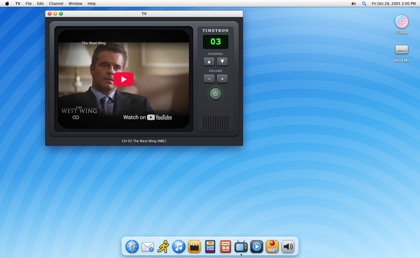
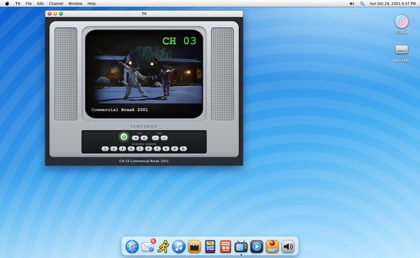
TV screenshots in the README and gallery; credits mention the Archive recordings

Changed region(s): [[0.0929, 0.062, 0.5881, 0.6822], [0.8357, 0.0, 0.8976, 0.031], [0.3405, 0.8992, 0.3714, 0.9612]]

diff --git a/gallery.html b/gallery.html
@@ -59,7 +59,8 @@ const SHOTS = [
   ['catalog', 'Catalog', 'The real 2005 JCPenney Christmas Book, page-flipping like a PDF, with zoom and full screen.'],
   ['movienight', 'Movie Night shelf', 'Your watchlist on a video store shelf. Pick boxes and it plans the night, with an intermission.'],
   ['movieguide', 'Movie Guide', "Tonight's double feature: two tickets, the running time, and snacks."],
-  ['tv', 'TV', 'An old set with channels to flip through.'],
+  ['tv', 'TV', 'Ten channels of real recordings from the year on the clock. Here, a commercial break from 2001.'],
+  ['tv-wide', 'TV, maximized', 'The picture stays 4:3 between the speakers. Press F for full screen, or type a channel on the keypad.'],
   ['utunes', 'uTunes', 'The Billboard year-end Hot 100 for every year, 1996 to 2005.'],
   ['quickshow', 'QuickShow', 'Trailers and show openings play in a little player.'],
   ['nim', 'NIM', 'Buddy list, chat rooms and profile pages, with bots that say so.'],

diff --git a/README.md b/README.md
@@ -10,7 +10,7 @@ Set the date and the machine fills with the real music, movies, TV shows and web
 
 ## Screenshots
 
-<p align="center"><b><a href="https://hertn.github.io/nostalgia-desktop/gallery.html">Browse the full gallery (13 pictures)</a></b></p>
+<p align="center"><b><a href="https://hertn.github.io/nostalgia-desktop/gallery.html">Browse the full gallery (14 pictures)</a></b></p>
 
 <table>
   <tr>
@@ -20,6 +20,10 @@ Set the date and the machine fills with the real music, movies, TV shows and web
   <tr>
     <td width="50%" align="center" valign="top"><img src="screenshots/catalog.png" alt="Catalog showing a 2005 JCPenney Christmas Book spread" width="100%"><br><b>Catalog</b>, real scanned spreads</td>
     <td width="50%" align="center" valign="top"><img src="screenshots/movienight.png" alt="Movie Night shelf with two films picked for tonight" width="100%"><br><b>Movie Night</b>, your watchlist on a shelf</td>
+  </tr>
+  <tr>
+    <td width="50%" align="center" valign="top"><img src="screenshots/tv.png" alt="The TV showing a commercial break from 2001" width="100%"><br><b>TV</b>, real recordings of the era</td>
+    <td width="50%" align="center" valign="top"><img src="screenshots/tv-wide.png" alt="The TV maximized, with speakers either side of the picture" width="100%"><br><b>TV</b>, maximized</td>
   </tr>
   <tr>
     <td width="50%" align="center" valign="top"><img src="screenshots/oldweb.png" alt="Old Web showing the On this day page" width="100%"><br><b>Old Web</b>, opening on the day on your clock</td>
@@ -39,7 +43,7 @@ For anyone who misses the early internet. It is a time capsule to look around in
 | --- | --- |
 | **Movie Guide** | Don't know what to watch? Open it and find something. Browse movies and TV shows from the era, filter by year, genre or network, press the **Surprise me** button for a random pick, or press the **Movie Night** button to get a double feature. Save favorites to a watchlist, then switch it to the **Shelf**: your saved titles stand on a video store shelf, and clicking boxes builds tonight's bill with start times, an intermission and when the lights come up, ready to copy or print. |
 | **uTunes** | The Billboard Year-End Hot 100 for every year, with the music videos. Build a playlist, then send it to Spotify or Apple Music (see below). |
-| **TV** | An old TV with channels 1 to 69: shows from the era, a news channel (channel 1) from the exact date on your clock, commercials and Saturday morning cartoons. |
+| **TV** | An old TV with ten channels of real recordings from the year on your clock: news (from the exact date), Saturday morning cartoons, commercials, kids TV, cartoons, sitcoms, dramas, late night, music TV, and sports and movies. Type a channel on the keypad or keyboard, or use the arrow keys. Press F for full screen. |
 | **Old Web** | Real websites as the Internet Archive saved them near your date. It opens on an "On this day" page with headlines, the number one song and movie, what was on TV and a picture of the day, and it dials in with a modem the first time. |
 | **TV Guide** | The printed TV listings, in the same page-flipping viewer as the Catalog. It opens the week on your clock as a recreated magazine: four pages for every day of what ABC, CBS, NBC, Fox, UPN and The WB ran, with the prime time hours in yellow. The Library also holds the real TV Guide issues that survive online as scans (1997 to 2002), and one opens by itself when its week matches your clock. |
 | **Catalog** | The real printed JCPenney and Sears catalogs of the year on your clock, as page scans you flip through like a book: every book of the year on your clock, opening on the one for the current quarter (Spring and Summer from January to June, Fall and Winter from July to September, Christmas from October to December). Click the sides or drag to turn pages, zoom in, jump with the page sidebar, open the **Library** for the older books of that year, or press **F** for true full screen. |
@@ -68,6 +72,7 @@ It is plain HTML, CSS and JavaScript (ES modules) with no build step, no server 
 - **"On this day":** Wikipedia date pages and current events, with Wikimedia Commons pictures of the day
 - **Videos:** found through public Piped search instances and played in YouTube's embedded player (videos that disallow embedding are skipped)
 - **Old websites:** the Internet Archive's Wayback Machine
+- **TV recordings:** the Internet Archive's video collections (VHS tapes of real broadcasts, commercial reels, news, cartoons), streamed straight from archive.org into a video player
 - **Catalog pages:** scans from [christmas.musetechnical.com](https://christmas.musetechnical.com/), loaded straight from your browser to their server (their server only handles two requests at a time, so new pages take a moment; pages you have seen are kept in your browser)
 
 ### Chat
@@ -113,7 +118,7 @@ Built by Claude, an AI made by Anthropic, and directed by Hert Niks.
 
 Chat uses [Trystero](https://github.com/dmotz/trystero) (MIT). Wikipedia text is available under CC BY-SA and is read live, not copied into this repository.
 
-The catalog pages are scans of real printed JCPenney and Sears catalogs, hosted by [christmas.musetechnical.com](https://christmas.musetechnical.com/) and shown here by linking to them, not copied into this repository. This is a fan tribute. Apart from those scans, names, marks, icons and sounds are original or generated in the browser. It has no connection to any real company or service and uses none of their logos or recordings.
+The catalog pages are scans of real printed JCPenney and Sears catalogs, hosted by [christmas.musetechnical.com](https://christmas.musetechnical.com/) and shown here by linking to them, not copied into this repository. This is a fan tribute. The TV plays recordings from the Internet Archive, streamed from archive.org and not copied into this repository; the TV screenshots show a frame from a 2001 commercial on the Archive. Apart from those scans and recordings, names, marks, icons and sounds are original or generated in the browser. It has no connection to any real company or service, and its own logos and interface use none of theirs.
 
 ## License
 

diff --git a/CHANGELOG.md b/CHANGELOG.md
@@ -3,6 +3,7 @@
 ## 2026-10-28
 
 ### Added
+- Screenshots of the TV, normal and maximized (a frame from a 2001 commercial on the Internet Archive), in the README and the gallery.
 - **Gallery** (`gallery.html`): the screenshots as a thumbnail grid that opens in a lightbox, with arrow keys and swipe, linked from the README.
 - Restart now boots straight back up instead of stopping at the power button; Movie Night's "Add both to watchlist" confirms the add.
 - **Catalog app:** the real printed JCPenney and Sears catalogs for the year on the clock, as page scans from christmas.musetechnical.com.
